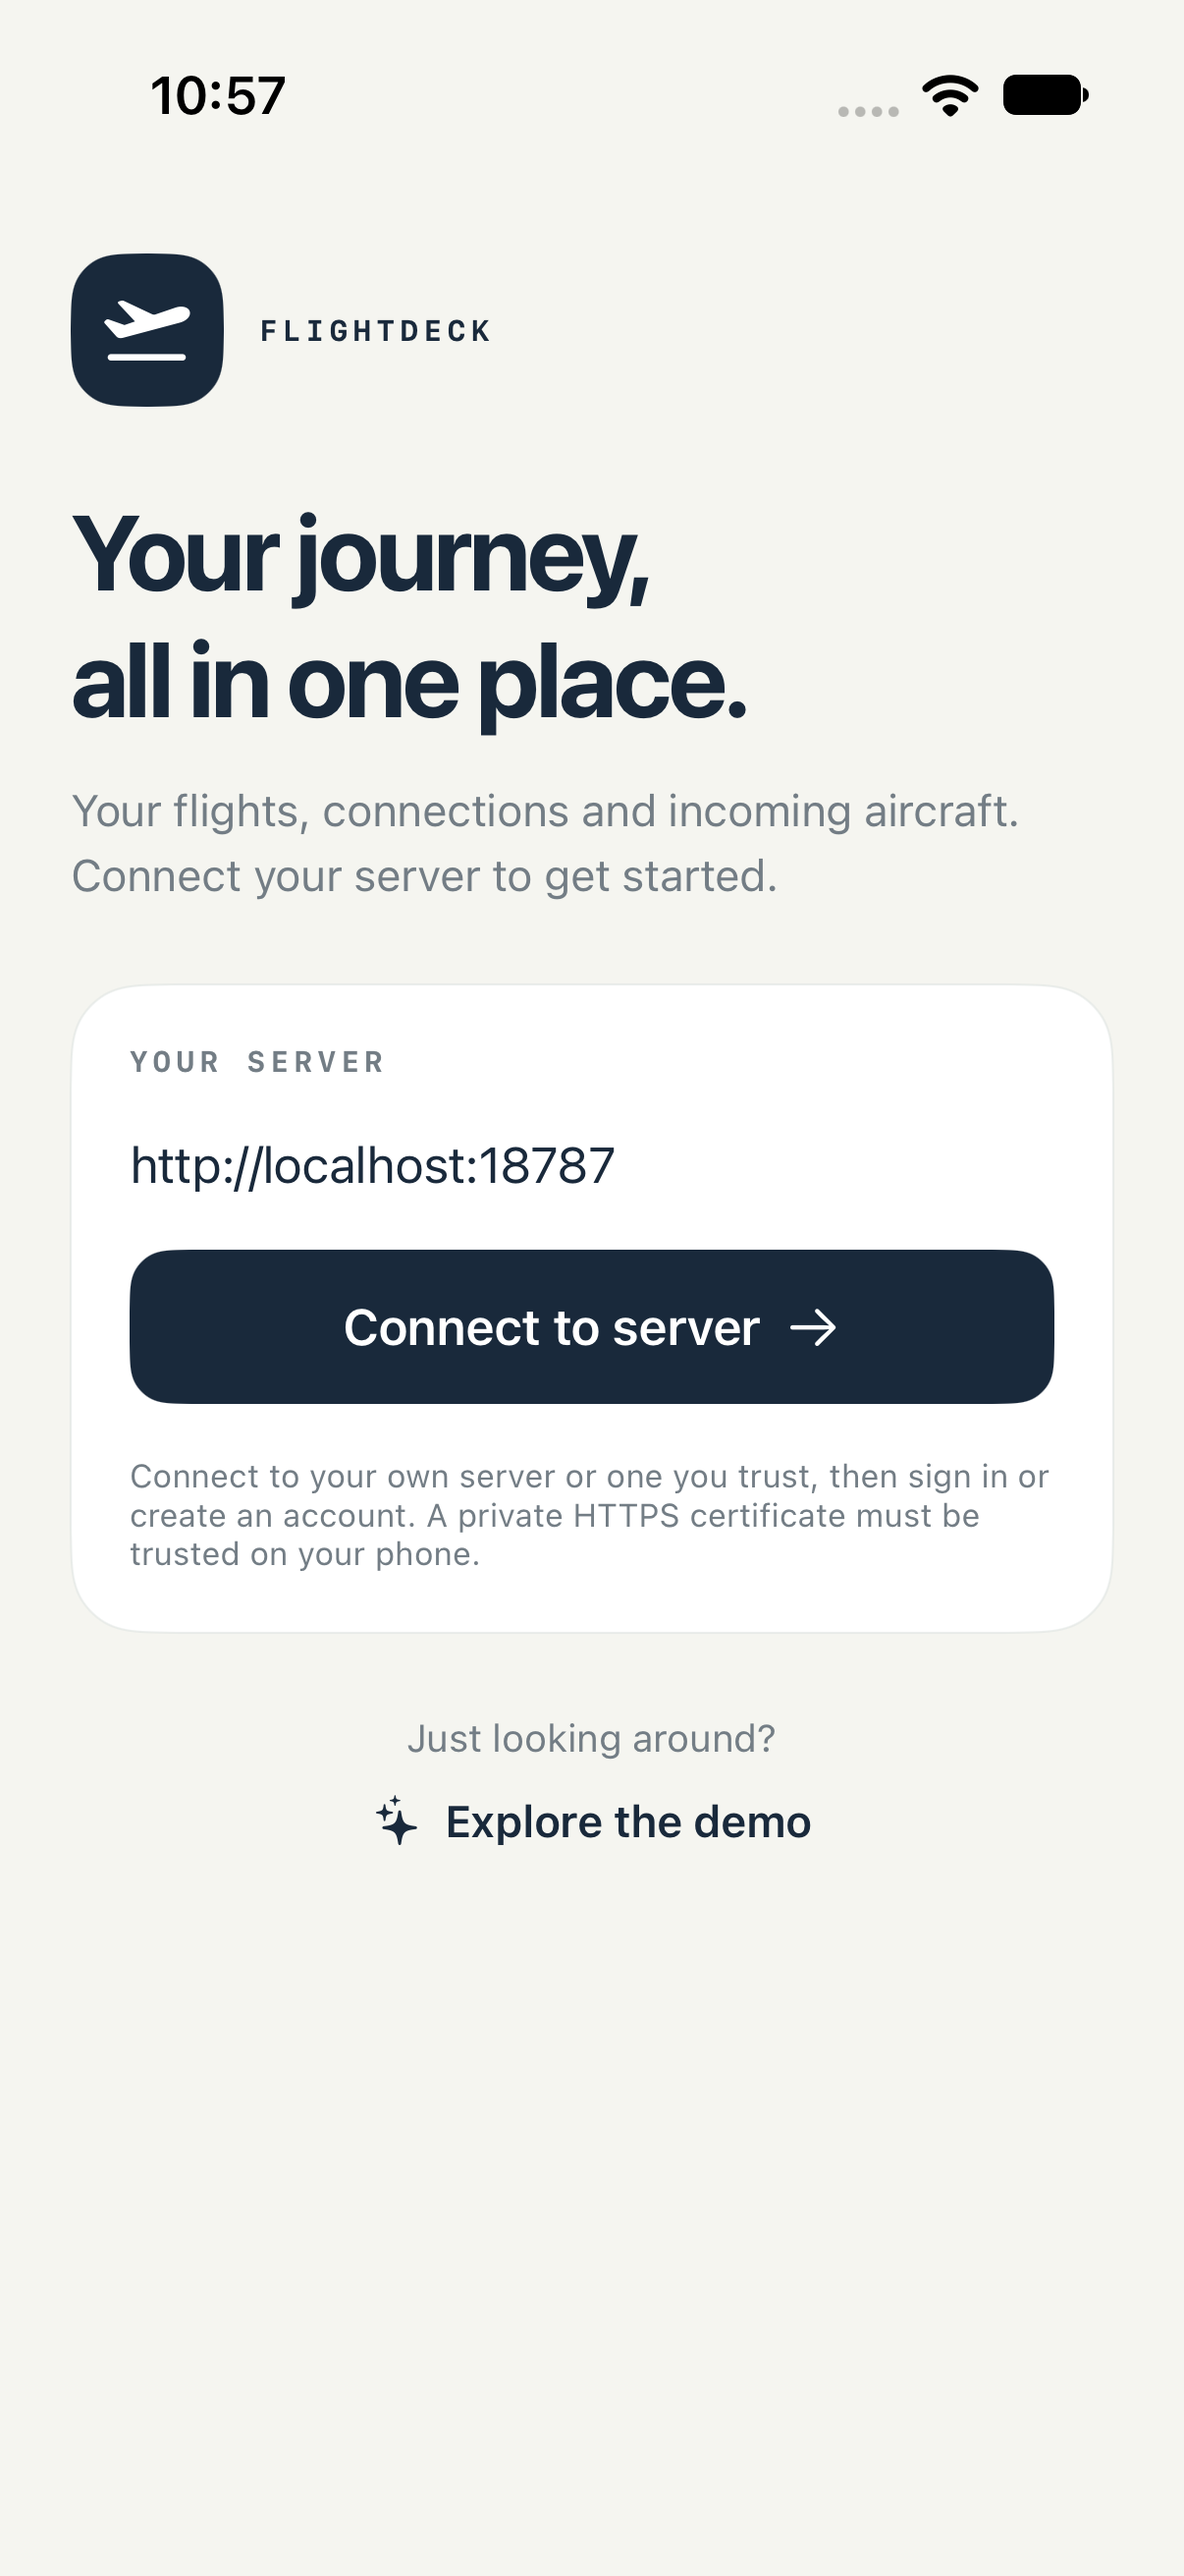
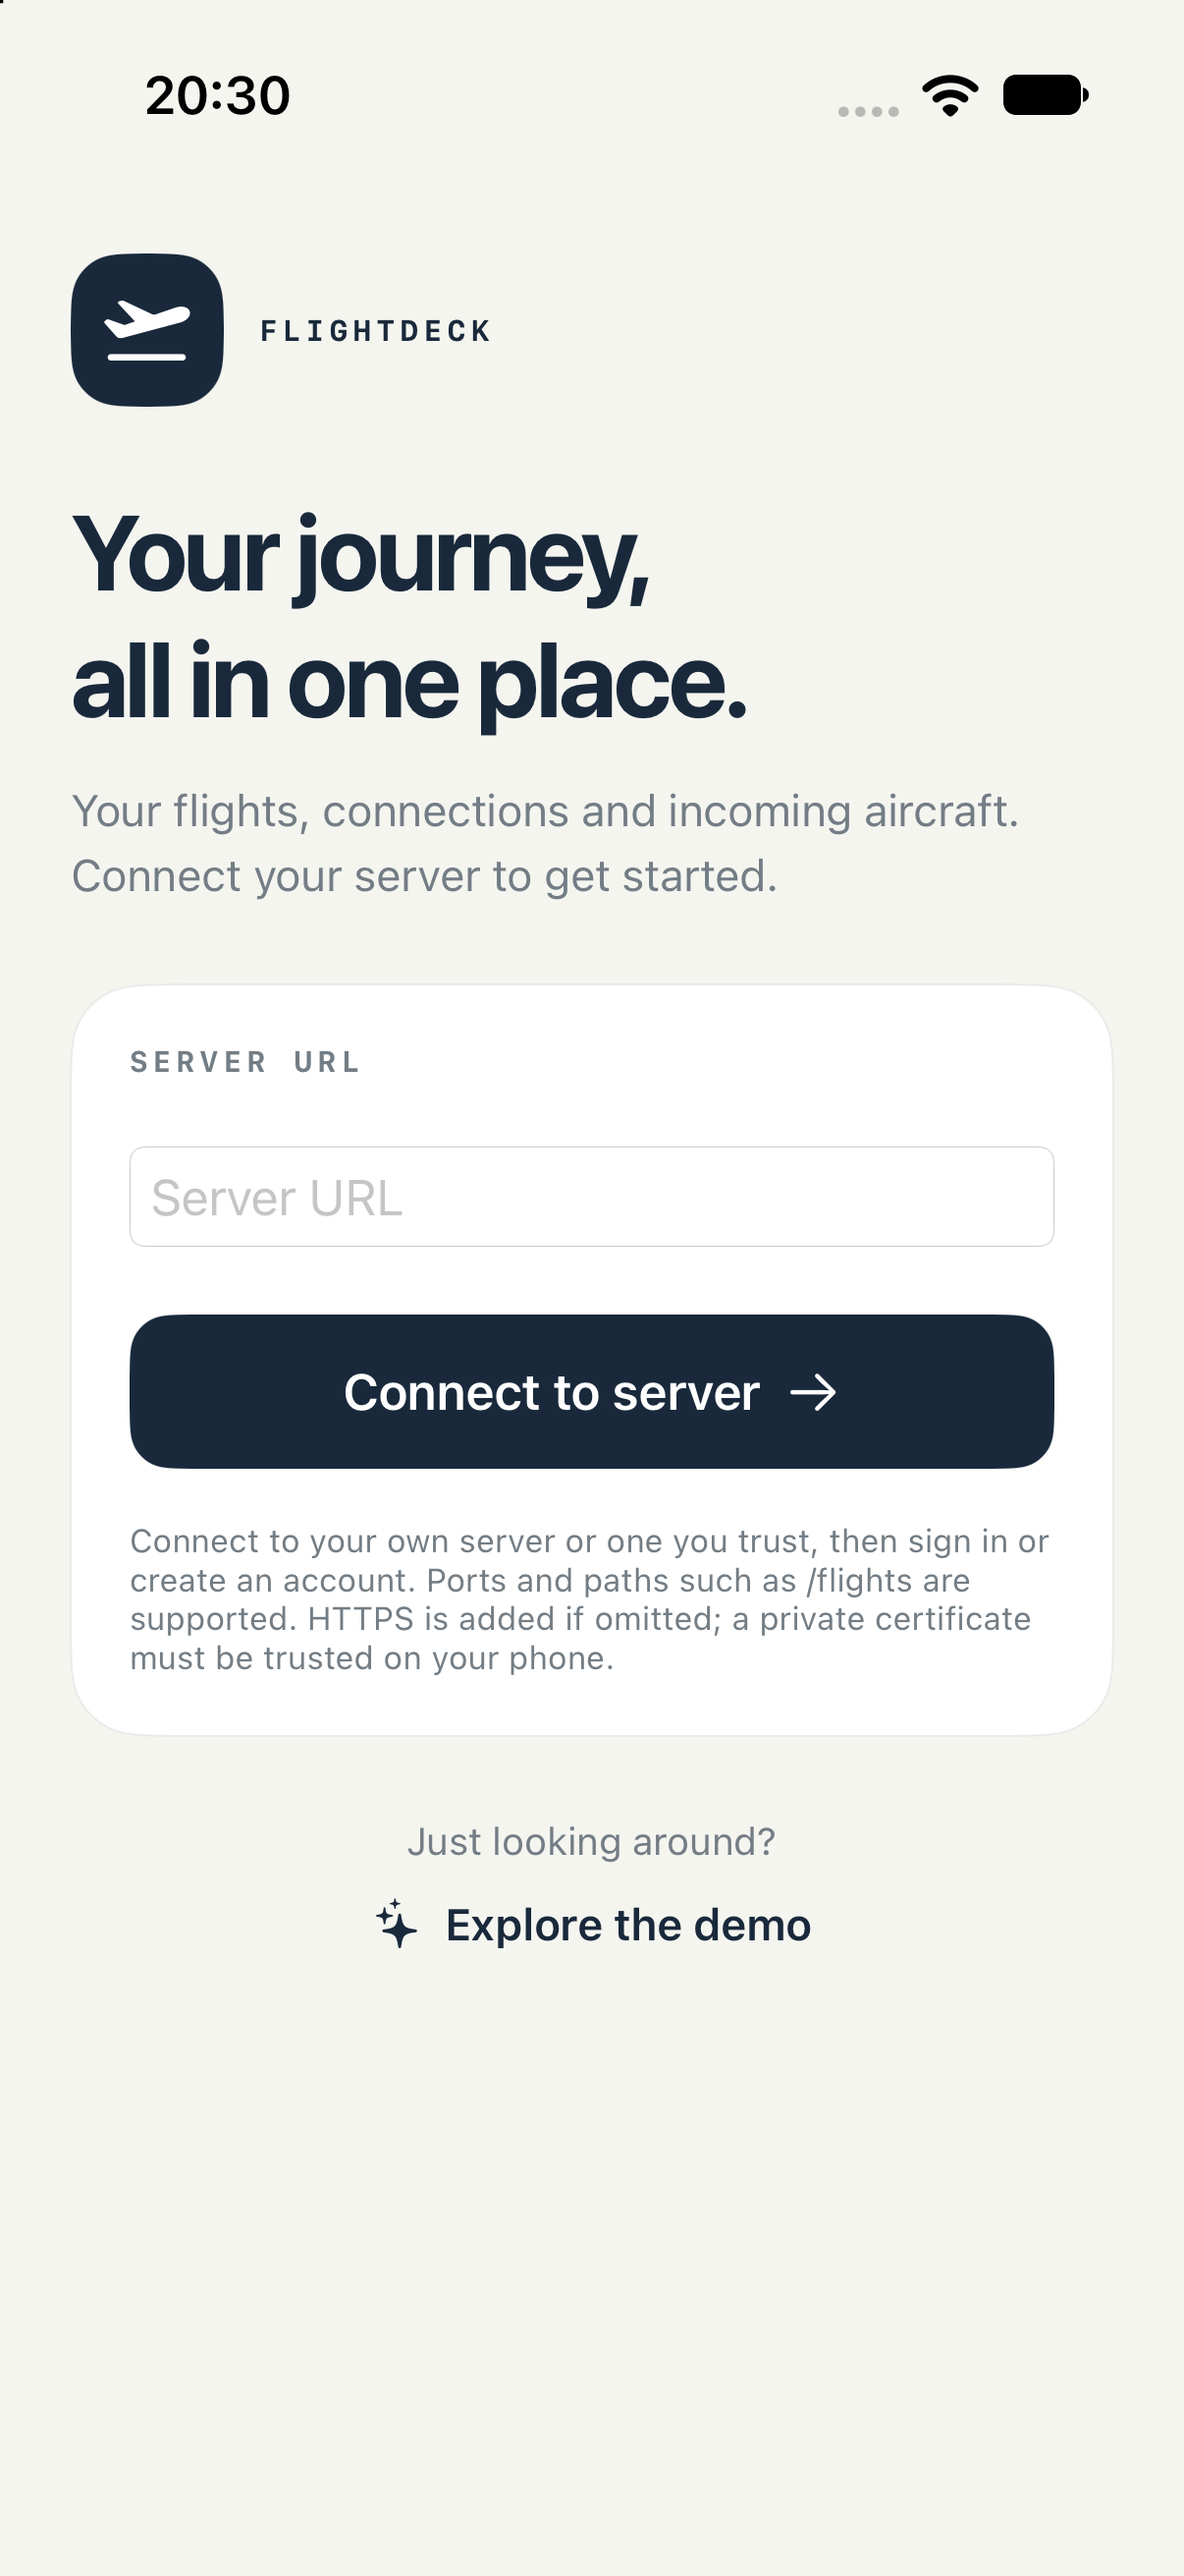
Make server URL entry an empty native text field

diff --git a/app/FlightDeck/StartView.swift b/app/FlightDeck/StartView.swift
@@ -46,10 +46,13 @@ struct ServerConnectionForm: View {
     @FocusState private var focused: Bool
     var body: some View {
         VStack(alignment:.leading,spacing:18) {
-            Text("YOUR SERVER").eyebrow().foregroundStyle(Deck.muted)
-            TextField("https://server.example.com:8080/flights",text:$address).textContentType(.URL).keyboardType(.URL)
+            Text("SERVER URL").eyebrow().foregroundStyle(Deck.muted)
+            TextField("Server URL",text:$address,prompt:Text("Server URL").foregroundStyle(Color(uiColor:.placeholderText)))
+                .textFieldStyle(.roundedBorder).font(.body).frame(minHeight:44)
+                .textContentType(.URL).keyboardType(.URL)
                 .focused($focused).textInputAutocapitalization(.never).autocorrectionDisabled()
-                .accessibilityIdentifier("serverAddress").submitLabel(.go).onSubmit { connect() }
+                .accessibilityLabel("Server URL").accessibilityIdentifier("serverAddress")
+                .submitLabel(.go).onSubmit { connect() }
             Button { connect() } label: {
                 HStack {
                     if connecting { ProgressView().tint(.white) }
@@ -62,7 +65,6 @@ struct ServerConnectionForm: View {
             Text("Connect to your own server or one you trust, then sign in or create an account. Ports and paths such as /flights are supported. HTTPS is added if omitted; a private certificate must be trusted on your phone.")
                 .font(.system(size:11)).foregroundStyle(Deck.muted).fixedSize(horizontal:false,vertical:true)
         }.deckCard()
-            .onAppear { address = store.address }
             .sheet(isPresented:$showingLogin,onDismiss:{ store.enterAccount() }) {
                 if let server { AccountAccessView(address:address,server:server) }
             }

diff --git a/app/FlightDeckUITests/FlightDeckUITests.swift b/app/FlightDeckUITests/FlightDeckUITests.swift
@@ -123,6 +123,29 @@ final class FlightDeckUITests: XCTestCase {
         app.terminate();app.launch()
         XCTAssertTrue(app.buttons["connectServer"].waitForExistence(timeout:10))
     }
+    func testServerURLFieldIsEmptyEditableAndUsesURLKeyboard() {
+        let app = XCUIApplication();app.launchArguments = ["--uitesting-start"];app.launch()
+        let field = app.textFields["serverAddress"]
+        XCTAssertTrue(field.waitForExistence(timeout:10))
+        XCTAssertEqual(field.placeholderValue,"Server URL")
+        XCTAssertTrue(["", "Server URL"].contains(field.value as? String ?? ""))
+        XCTAssertFalse(app.buttons["connectServer"].isEnabled)
+        capture("Empty server URL field",app)
+        field.tap()
+        XCTAssertTrue(app.keyboards.firstMatch.waitForExistence(timeout:5))
+        let address = "https://192.0.2.10:8080/flights"
+        field.typeText(address)
+        XCTAssertEqual(field.value as? String,address)
+        XCTAssertTrue(app.buttons["connectServer"].isEnabled)
+        capture("Editable server URL with URL keyboard",app)
+        field.typeText(String(repeating:XCUIKeyboardKey.delete.rawValue,count:address.count))
+        XCTAssertTrue(["", "Server URL"].contains(field.value as? String ?? ""))
+        XCTAssertFalse(app.buttons["connectServer"].isEnabled)
+        if app.buttons["Done"].exists { app.buttons["Done"].tap() }
+        app.terminate();app.launch()
+        XCTAssertTrue(field.waitForExistence(timeout:10))
+        XCTAssertTrue(["", "Server URL"].contains(field.value as? String ?? ""))
+    }
     func testCalendarSuggestionsDismissalImportAndManualSearchPersist() {
         let app = XCUIApplication()
         app.launchArguments = ["--uitesting","--uitesting-calendar","--uitesting-calendar-reset"];app.launch()

diff --git a/VALIDATION.md b/VALIDATION.md
@@ -42,3 +42,9 @@ Physical-device permission prompts and real Google Calendar sync will be checked
 - The native account UI test passes through `/flights/` (124.75 seconds), including registration, key setup, usage, adding a flight, restarting with the saved session, signing out, an isolated second account and signing back in. The saved server address retains the prefix across these transitions.
 - A signed ARM64 iPhone build succeeds using the installed personal development identity and passes strict code-signature verification. Physical-device installation still requires a provisioning profile that includes the target phone.
 - The production Python routes remain rooted at `/v1/`. A reverse proxy must strip `/flights` before forwarding, preserve query strings and authorization, and avoid redirects. HTTPS and system certificate validation remain required for remote servers.
+
+## Server URL entry
+
+- The connection page starts with an empty native rounded-border text field, a short system-grey **Server URL** placeholder, an explicit accessibility label and the URL keyboard. It does not insert a sample URL or prefill the field when a new connection page opens.
+- Two targeted native UI checks pass (52.61 seconds). They verify the empty field and disabled connection button, tapping to open the keyboard, entering an HTTPS address with a port and `/flights` prefix, clearing back to the placeholder, empty state after restart, and the existing explicit demo/start-page navigation.
+- The updated ARM64 build is signed for the approved development team and passes strict signature verification with a profile containing the target iPhone.

diff --git a/README.md b/README.md
@@ -108,12 +108,12 @@ The server listens at `127.0.0.1:8787`. For a physical phone, place it behind yo
     <th>Bring your own API key</th>
   </tr>
   <tr>
-    <td><a href="previews/start.png"><img src="previews/start.png" width="250" alt="The start page with a server address, Connect to server button and secondary Explore the demo option"></a></td>
+    <td><a href="previews/start.png"><img src="previews/start.png" width="250" alt="The start page with an empty, outlined Server URL input, Connect to server button and secondary Explore the demo option"></a></td>
     <td><a href="previews/api-key-setup.png"><img src="previews/api-key-setup.png" width="250" alt="The AeroAPI setup guide with account instructions, provider links and a secure key-entry field"></a></td>
   </tr>
 </table>
 
-To try the interface first, choose **Explore the demo** on the start page. This uses local sample flights and makes no provider requests. The localhost address shown in the screenshot is a test-server example; enter your own server's address.
+To try the interface first, choose **Explore the demo** on the start page. This uses local sample flights and makes no provider requests. The server field starts empty; enter your own server's address to connect.
 
 ## Credentials and API costs
 
